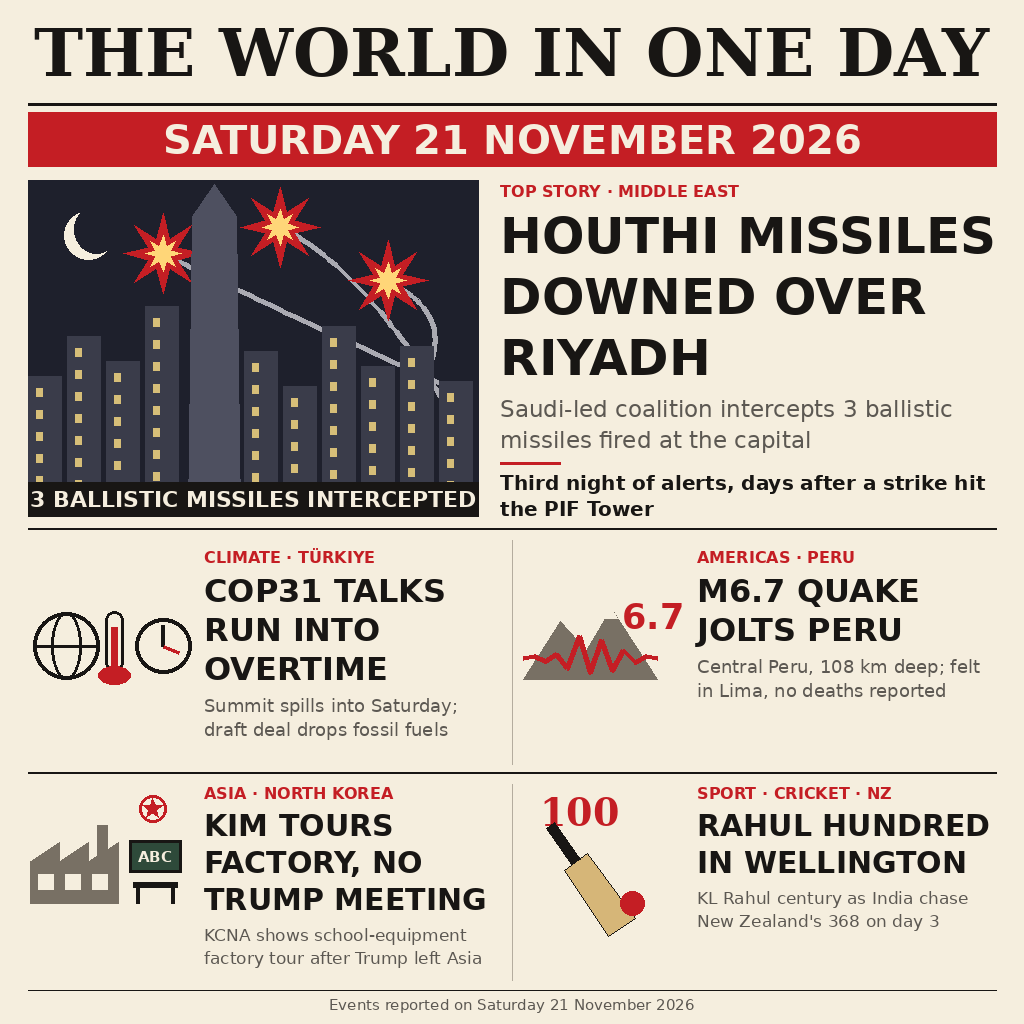
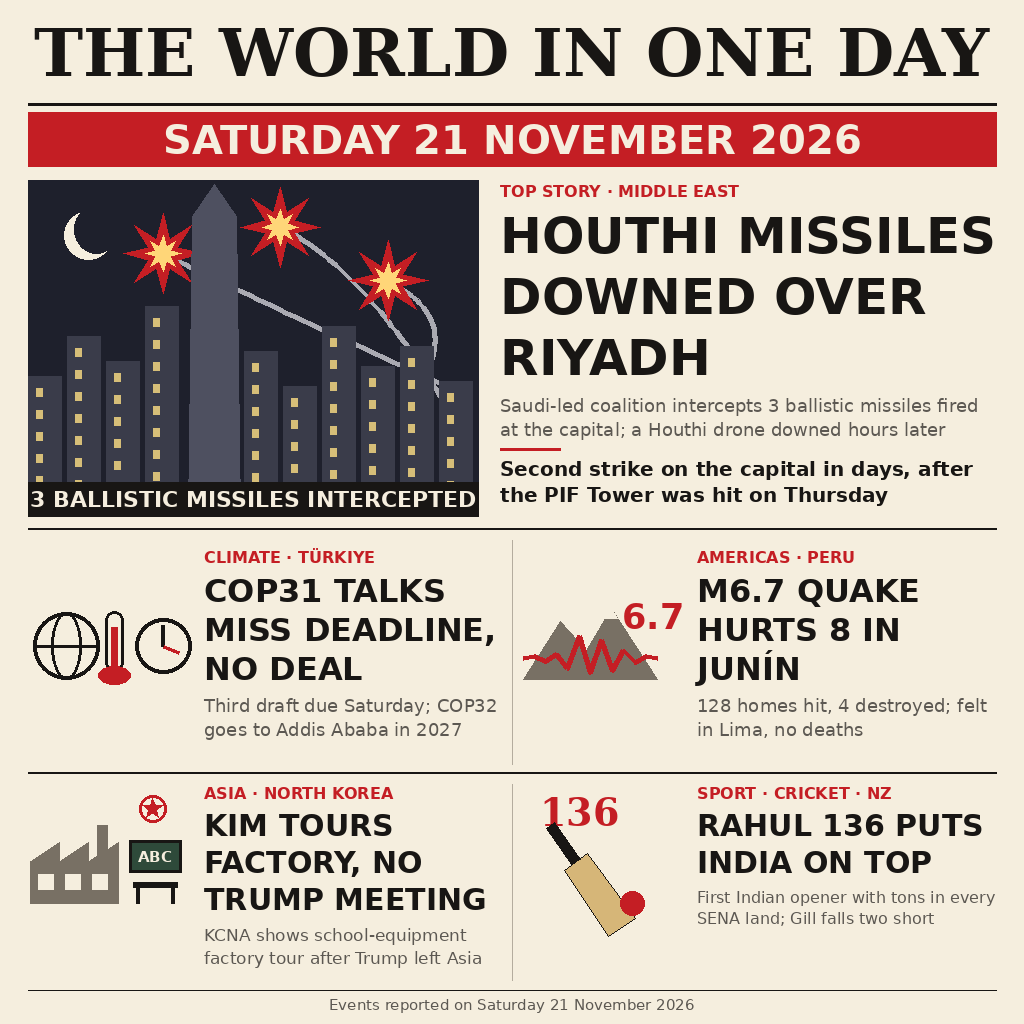
v2: Saturday-evening facts — COP31 no deal, Peru toll 8 hurt/128 homes, Rahul 136, Riyadh drone downed

diff --git a/draw_entry.py b/draw_entry.py
@@ -199,9 +199,9 @@ def factory_icon(d, x, y, s):
 
 
 def cricket_icon(d, x, y, s):
-    """A century: '100' over a tilted bat and ball."""
+    """Rahul's 136: the final score over a tilted bat and ball."""
     f = font(SERIF_B, int(s * 0.46))
-    d.text((x + s * 0.20, y - s * 0.40), "100", font=f, fill=RED)
+    d.text((x + s * 0.20, y - s * 0.40), "136", font=f, fill=RED)
     a = math.radians(-35)
 
     def rot(px, py):
@@ -259,10 +259,10 @@ def main():
     tw = W - M - tx
     y = story(d, tx, top + 2, tw, "TOP STORY · MIDDLE EAST",
               "HOUTHI MISSILES DOWNED OVER RIYADH",
-              "Saudi-led coalition intercepts 3 ballistic missiles fired at the capital",
+              "Saudi-led coalition intercepts 3 ballistic missiles fired at the capital; a Houthi drone downed hours later",
               58, 4, 23, bottom - 56)
     fx = font(SANS_B, 20)
-    extra = wrap(d, "Third night of alerts, days after a strike hit the PIF Tower", fx, tw)
+    extra = wrap(d, "Second strike on the capital in days, after the PIF Tower was hit on Thursday", fx, tw)
     d.line((tx, y + 6, tx + 60, y + 6), fill=RED, width=3)
     block(d, tx, y + 14, extra, fx, INK, 1.1)
     d.line((M, bottom + 12, W - M, bottom + 12), fill=INK, width=2)
@@ -273,10 +273,10 @@ def main():
     ry = bottom + 24
     row_end = ry + 224
     cells = [
-        (cop_icon, "CLIMATE · TÜRKIYE", "COP31 TALKS RUN INTO OVERTIME",
-         "Summit spills into Saturday; draft deal drops fossil fuels"),
-        (quake_icon, "AMERICAS · PERU", "M6.7 QUAKE JOLTS PERU",
-         "Central Peru, 108 km deep; felt in Lima, no deaths reported"),
+        (cop_icon, "CLIMATE · TÜRKIYE", "COP31 TALKS MISS DEADLINE, NO DEAL",
+         "Third draft due Saturday; COP32 goes to Addis Ababa in 2027"),
+        (quake_icon, "AMERICAS · PERU", "M6.7 QUAKE HURTS 8 IN JUNÍN",
+         "128 homes hit, 4 destroyed; felt in Lima, no deaths"),
     ]
     for i, (icon, tag, head, deck) in enumerate(cells):
         cx = M + i * (cw2 + g)
@@ -291,8 +291,8 @@ def main():
     wide = [
         (factory_icon, "ASIA · NORTH KOREA", "KIM TOURS FACTORY, NO TRUMP MEETING",
          "KCNA shows school-equipment factory tour after Trump left Asia"),
-        (cricket_icon, "SPORT · CRICKET · NZ", "RAHUL HUNDRED IN WELLINGTON",
-         "KL Rahul century as India chase New Zealand's 368 on day 3"),
+        (cricket_icon, "SPORT · CRICKET · NZ", "RAHUL 136 PUTS INDIA ON TOP",
+         "First Indian opener with tons in every SENA land; Gill falls two short"),
     ]
     for i, (icon, tag, head, deck) in enumerate(wide):
         cx = M + i * (cw2 + g)

diff --git a/README.md b/README.md
@@ -10,11 +10,15 @@
 
 ## Stories
 
-- **Middle East (lead):** Houthi missiles downed over Riyadh — the Saudi-led coalition says it intercepted 3 ballistic missiles fired at the capital.
-- **Climate · Türkiye:** COP31 talks in Antalya run into overtime on Saturday; the latest draft deal drops any mention of fossil fuels.
-- **Americas · Peru:** M6.7 quake jolts central Peru (00:09 GMT Saturday), 108 km deep, felt in Lima; no deaths reported.
+- **Middle East (lead):** Houthi missiles downed over Riyadh — the Saudi-led coalition says it intercepted 3 ballistic missiles fired at the capital early Saturday, and destroyed a Houthi drone hours later; the second strike on the capital in days, after the PIF Tower was hit on Thursday.
+- **Climate · Türkiye:** COP31 talks in Antalya miss their Friday deadline with no deal — the latest draft drops any mention of fossil fuels, a third draft is due Saturday, and Addis Ababa will host COP32 in 2027.
+- **Americas · Peru:** M6.7 quake in Junín (00:09 GMT Saturday), 108 km deep, felt in Lima — INDECI's Saturday balance: 8 injured, 128 homes affected, 4 destroyed, no deaths.
 - **Asia · North Korea:** state media show Kim Jong Un touring school-equipment factories after Trump left Asia without meeting him.
-- **Sport:** KL Rahul hits a century in Wellington as India chase New Zealand's 368 on day 3 of the first Test.
+- **Sport:** KL Rahul's 136 puts India on top in Wellington — the first Indian opener with Test tons in every SENA country; Shubman Gill falls two short of his own century on day 3.
+
+## v2 — Saturday evening update
+
+Resubmitted on the evening of Saturday 21 November 2026 with the day's final facts: the Riyadh interception confirmed as the second strike on the capital in days plus the drone downed later, COP31 still without a deal past its deadline, INDECI's updated Peru toll, and the stumps state of day 3 in Wellington. Sources checked Saturday evening: Reuters and Al Jazeera (Riyadh), COP31 presidency briefings (Antalya), INDECI via RPP and Andina (Peru), KCNA via AFP (Pyongyang), ESPNcricinfo (Wellington). No Friday story is presented as Saturday news.
 
 ## Run it
 
